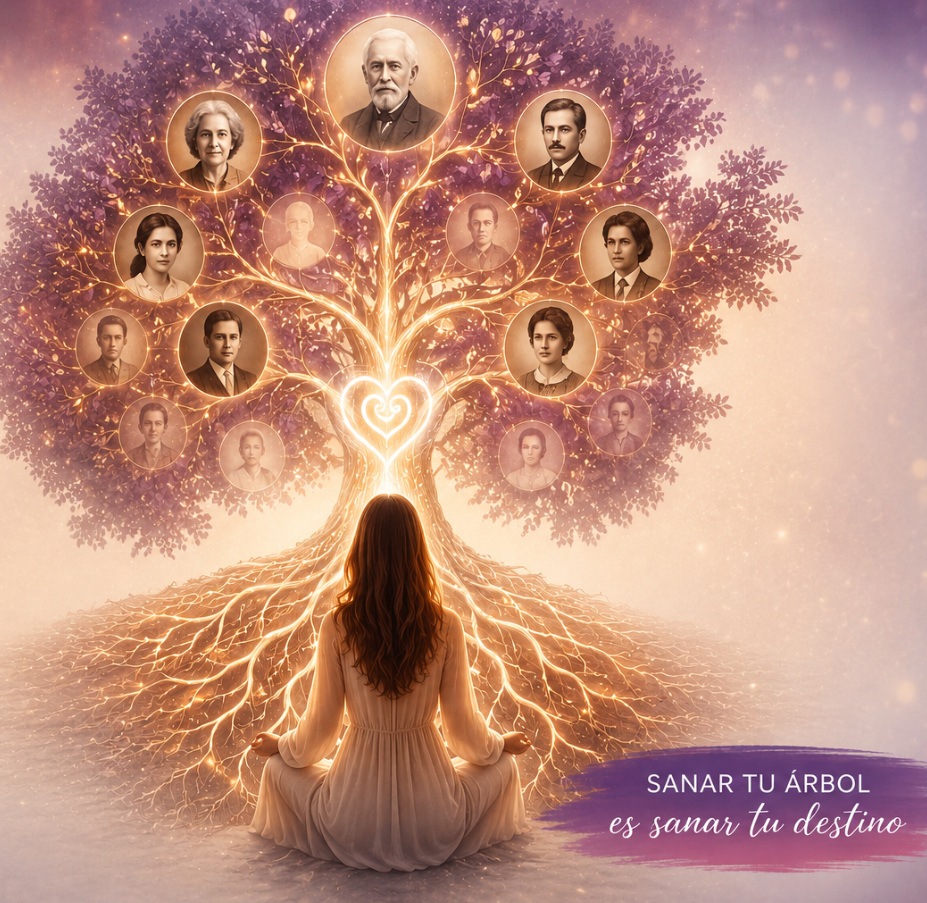
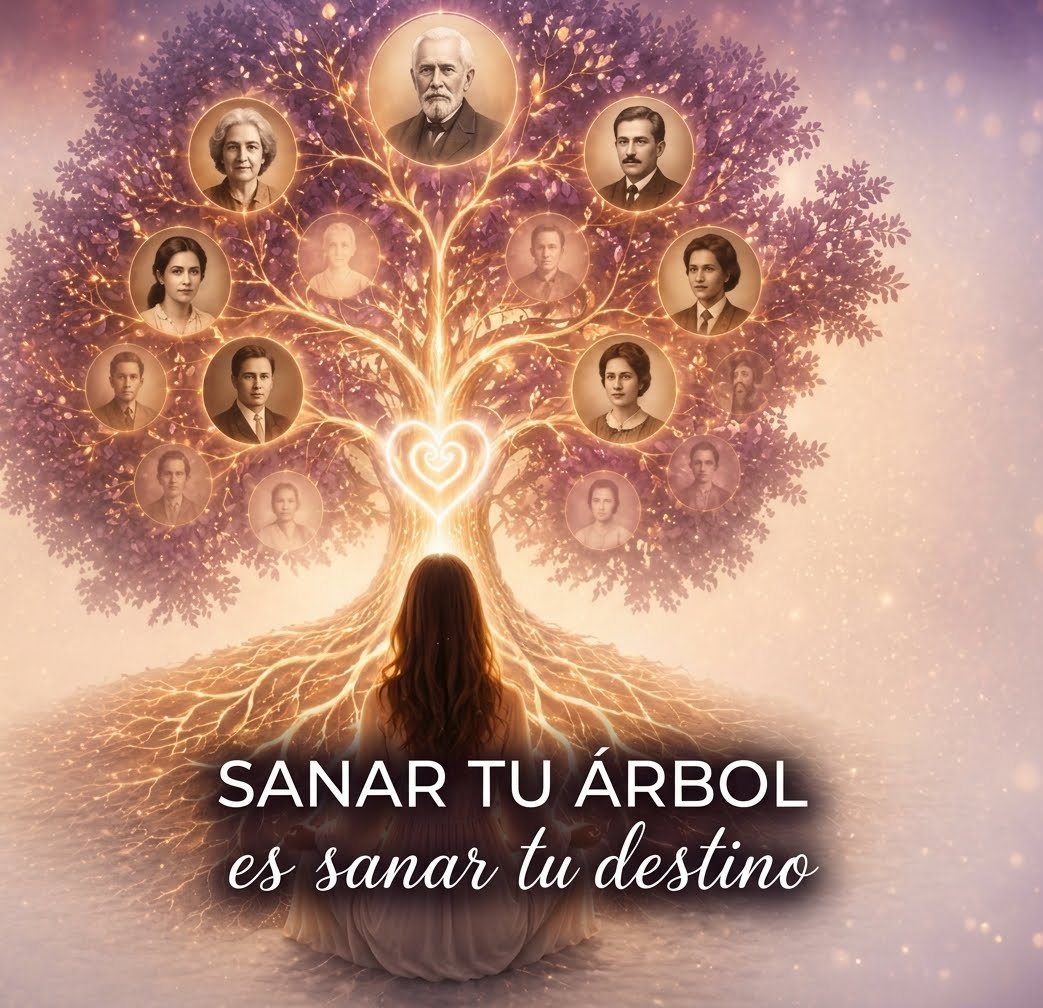
Cambio en imagen de arbol-genealogico.png y modificacion en boton correo

diff --git a/componentes/footer/footer.html b/componentes/footer/footer.html
@@ -17,7 +17,9 @@
             </li>
 
             <li>
-                <a href="mailto:milagrosterapiaholistica@gmail.com">
+                <a href="https://mail.google.com/mail/?view=cm&fs=1&to=milagrosterapiaholistica@gmail.com&su=Consulta%20desde%20la%20web"
+                target="_blank"
+                rel="noopener noreferrer">
                     Correo
                 </a>
             </li>
